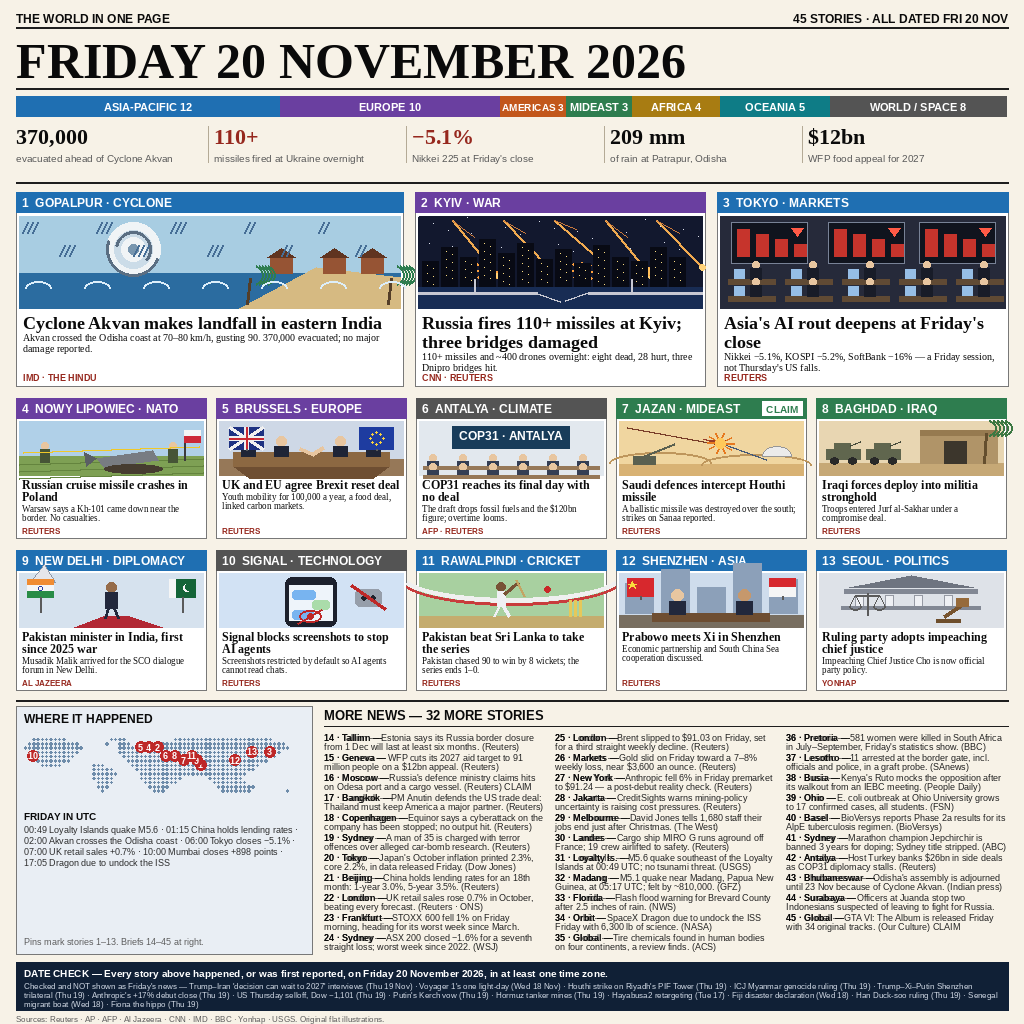
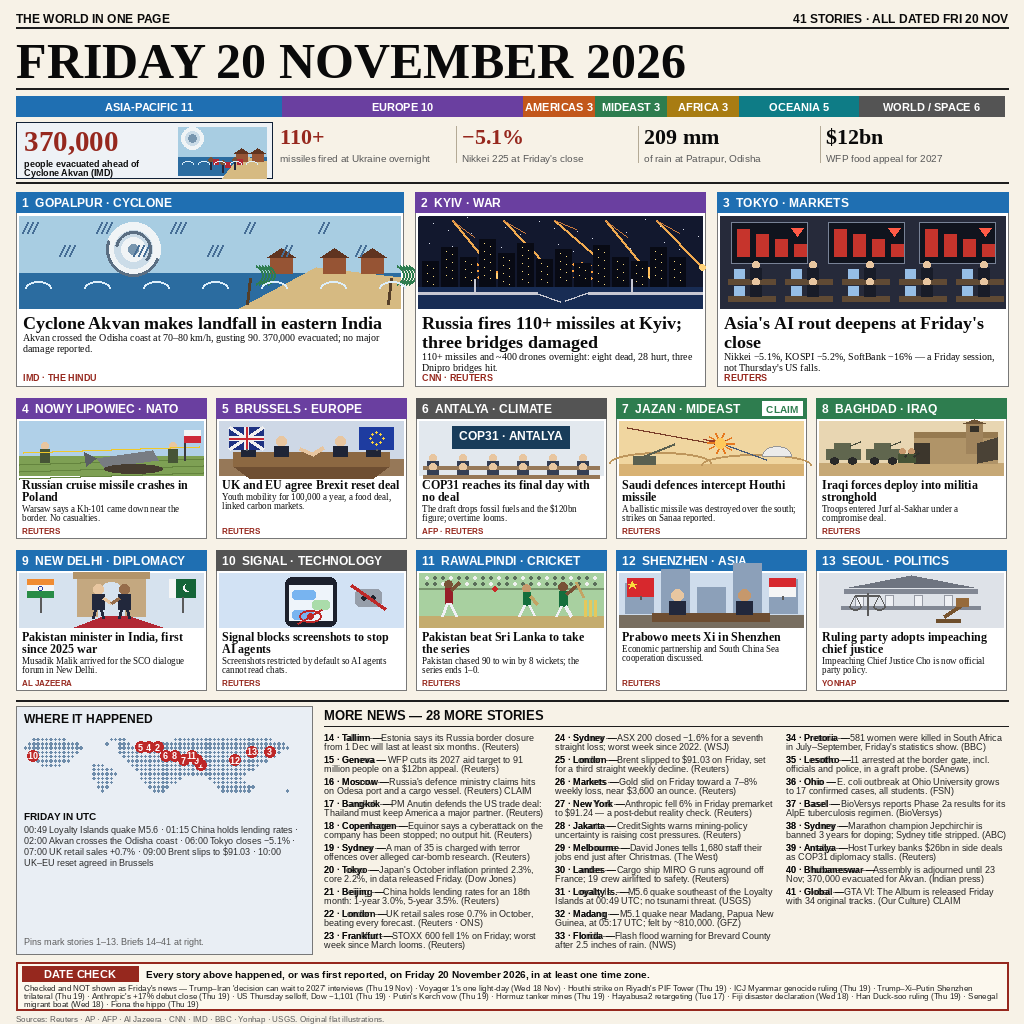
Revision round 2 per Keva 19:17-19:19: V2 cream DATE CHECK locked with strong red frame + title chip; briefs cut 32->28 (41 stories) at pitch 22; hero figure 370,000 panel with evacuation scene; new scenes for cards 8 (convoy+soldiers+watchtower), 9 (handshake at India Gate), 11 (cricket chase, no b

diff --git a/render.py b/render.py
@@ -279,15 +279,16 @@ def scene_iraq(x, y, w, h):
     d.rectangle([x, y, x + w, y + h], fill=(232, 214, 178))
     gy = y + int(h * .78)
     d.rectangle([x, gy, x + w, y + h], fill=(198, 168, 118))
-    # compound wall + gate
-    d.rectangle([x + int(w * .55), y + int(h * .18), x + w - 6, gy], fill=(176, 148, 104))
-    d.rectangle([x + int(w * .55), y + int(h * .18), x + w - 6, y + int(h * .26)], fill=(150, 122, 80))
-    d.rectangle([x + int(w * .68), gy - 22, x + int(w * .8), gy], fill=(60, 54, 44))
-    # palm
-    px = x + int(w * .9)
-    d.line([px, gy, px + 2, gy - 30], fill=(100, 78, 46), width=3)
-    for a in range(5):
-        d.arc([px - 14 + a * 4, gy - 44, px + 12 + a * 4, gy - 26], 300, 60, fill=(60, 120, 66), width=2)
+    # compound wall + watchtower + open gate (troops entering the stronghold)
+    d.rectangle([x + int(w * .52), y + int(h * .22), x + w - 6, gy], fill=(176, 148, 104))
+    d.rectangle([x + int(w * .52), y + int(h * .22), x + w - 6, y + int(h * .30)], fill=(150, 122, 80))
+    tx = x + int(w * .80)
+    d.rectangle([tx, y + int(h * .04), tx + 16, gy - 10], fill=(160, 132, 92))
+    d.polygon([(tx - 3, y + int(h * .04)), (tx + 8, y - 2), (tx + 19, y + int(h * .04))], fill=(110, 84, 54))
+    d.rectangle([tx + 4, y + int(h * .10), tx + 12, y + int(h * .20)], fill=(52, 48, 40))
+    # gate: one leaf swung open, vehicle passing through the gap
+    d.rectangle([x + int(w * .52), gy - 20, x + int(w * .60), gy], fill=(60, 54, 44))
+    d.polygon([(x + int(w * .86), gy - 20), (x + w - 6, gy - 26), (x + w - 6, gy - 4), (x + int(w * .86), gy)], fill=(74, 66, 54))
     # armoured vehicles convoy
     for i, fx in enumerate((0.04, 0.26)):
         vx = x + int(w * fx); vy = gy - 14
@@ -296,20 +297,32 @@ def scene_iraq(x, y, w, h):
         d.line([vx + 24, vy - 4, vx + 34, vy - 8], fill=(70, 74, 58), width=2)
         d.ellipse([vx + 4, vy + 8, vx + 12, vy + 15], fill=(40, 40, 40))
         d.ellipse([vx + 22, vy + 8, vx + 30, vy + 15], fill=(40, 40, 40))
+    # soldiers on foot walking toward the gate (drawn last, in front of the convoy)
+    for fx in (0.44, 0.485):
+        sx = x + int(w * fx); sy = gy - 1
+        d.ellipse([sx, sy - 14, sx + 6, sy - 8], fill=(198, 152, 108))
+        d.rectangle([sx - 1, sy - 8, sx + 7, sy], fill=(70, 84, 54))
+        d.line([sx + 6, sy - 6, sx + 11, sy - 10], fill=(50, 50, 44), width=2)
 
 def scene_delhi(x, y, w, h):
     d.rectangle([x, y, x + w, y + h], fill=(214, 226, 238))
     gy = y + int(h * .8)
+    # India Gate silhouette behind the meeting (New Delhi landmark)
+    gx = x + w // 2
+    d.rectangle([gx - 34, gy - 40, gx + 34, gy], fill=(196, 168, 128))
+    d.rectangle([gx - 38, gy - 44, gx + 38, gy - 38], fill=(178, 148, 106))
+    d.pieslice([gx - 13, gy - 34, gx + 13, gy - 8], 180, 360, fill=(214, 226, 238))
+    d.rectangle([gx - 13, gy - 21, gx + 13, gy], fill=(214, 226, 238))
     # red carpet
     d.polygon([(x + int(w * .3), y + h), (x + int(w * .46), gy), (x + int(w * .6), gy), (x + int(w * .78), y + h)], fill=(178, 40, 52))
-    # plane tail behind
-    d.polygon([(x + int(w * .06), gy - 34), (x + int(w * .2), gy - 34), (x + int(w * .14), gy - 52)], fill=(230, 230, 235), outline=(140, 150, 165))
-    # minister figure walking
-    mx = x + int(w * .5)
-    d.ellipse([mx - 5, gy - 34, mx + 5, gy - 24], fill=(150, 108, 74))
-    d.rectangle([mx - 6, gy - 24, mx + 6, gy - 8], fill=(34, 40, 60))
-    d.line([mx - 3, gy - 8, mx - 6, gy + 2], fill=(34, 40, 60), width=3)
-    d.line([mx + 3, gy - 8, mx + 7, gy + 2], fill=(34, 40, 60), width=3)
+    # two ministers shaking hands at the centre of the carpet
+    for sgn, skin in ((-1, (232, 198, 160)), (1, (150, 108, 74))):
+        mx = gx + sgn * 13
+        d.ellipse([mx - 5, gy - 32, mx + 5, gy - 22], fill=skin)
+        d.rectangle([mx - 6, gy - 22, mx + 6, gy - 7], fill=(34, 40, 60))
+        d.line([mx - 3, gy - 7, mx - 5, gy + 2], fill=(34, 40, 60), width=3)
+        d.line([mx + 3, gy - 7, mx + 5, gy + 2], fill=(34, 40, 60), width=3)
+        d.line([mx - sgn * 5, gy - 18, gx, gy - 13], fill=skin, width=3)
     # flags India & Pakistan
     def flag_in(bx, by):
         d.rectangle([bx, by, bx + 26, by + 6], fill=(240, 140, 50))
@@ -353,20 +366,40 @@ def scene_cricket(x, y, w, h):
     d.rectangle([x, y, x + w, y + h], fill=(168, 208, 160))
     gy = y + int(h * .8)
     d.rectangle([x, gy, x + w, y + h], fill=(196, 172, 110))
-    # stadium arc
-    d.arc([x - 20, y - int(h * .5), x + w + 20, y + int(h * .55)], 20, 160, fill=(240, 240, 240), width=5)
-    d.arc([x - 20, y - int(h * .42), x + w + 20, y + int(h * .6)], 20, 160, fill=(200, 60, 60), width=3)
-    # batsman
-    bx = x + int(w * .42)
+    # crowd in the stands: plain dot rows, no banner
+    for r_ in range(2):
+        for i in range(22):
+            cxp = x + 6 + i * int((w - 12) / 21); cyp = y + 3 + r_ * 6
+            d.ellipse([cxp, cyp, cxp + 3, cyp + 3], fill=(90, 110, 90) if (i + r_) % 3 else (240, 240, 240))
+    d.line([x, y + 15, x + w, y + 15], fill=(120, 150, 110), width=2)
+    # the chase: bowler (left) has just delivered; batsman in green (right) plays the shot;
+    # his partner runs between the wickets — the winning chase, told as a match scene
+    # bowler
+    wx = x + int(w * .14)
+    d.ellipse([wx, gy - 36, wx + 8, gy - 28], fill=(120, 82, 54))
+    d.rectangle([wx + 1, gy - 28, wx + 8, gy - 13], fill=(150, 30, 40))
+    d.line([wx + 7, gy - 26, wx + 15, gy - 34], fill=(120, 82, 54), width=3)  # bowling arm up
+    d.line([wx + 3, gy - 13, wx - 2, gy], fill=(240, 240, 245), width=3)
+    d.line([wx + 6, gy - 13, wx + 12, gy], fill=(240, 240, 245), width=3)
+    # ball in flight
+    d.ellipse([x + int(w * .40), gy - 30, x + int(w * .40) + 5, gy - 25], fill=(200, 40, 40))
+    # running partner, mid-pitch, bat in hand
+    rx = x + int(w * .56)
+    d.ellipse([rx, gy - 32, rx + 8, gy - 24], fill=(198, 152, 108))
+    d.rectangle([rx + 1, gy - 24, rx + 8, gy - 11], fill=(20, 110, 60))
+    d.line([rx + 2, gy - 11, rx - 3, gy], fill=(240, 240, 245), width=3)
+    d.line([rx + 7, gy - 11, rx + 12, gy - 1], fill=(240, 240, 245), width=3)
+    d.line([rx + 8, gy - 20, rx + 15, gy - 12], fill=(196, 164, 100), width=3)  # carried bat
+    # batsman in Pakistan green, shot played
+    bx = x + int(w * .76)
     d.ellipse([bx, gy - 34, bx + 9, gy - 25], fill=(120, 82, 54))
-    d.rectangle([bx + 1, gy - 25, bx + 9, gy - 10], fill=(240, 240, 245))
-    d.line([bx + 8, gy - 22, bx + 22, gy - 34], fill=(120, 82, 54), width=3)  # bat arm
-    d.line([bx + 20, gy - 36, bx + 28, gy - 20], fill=(196, 164, 100), width=3)  # bat
+    d.rectangle([bx + 1, gy - 25, bx + 9, gy - 10], fill=(20, 110, 60))
+    d.line([bx + 8, gy - 22, bx + 20, gy - 32], fill=(120, 82, 54), width=3)  # bat arm
+    d.line([bx + 18, gy - 34, bx + 25, gy - 19], fill=(196, 164, 100), width=3)  # bat
     d.line([bx + 3, gy - 10, bx - 2, gy], fill=(240, 240, 245), width=3)
     d.line([bx + 7, gy - 10, bx + 13, gy], fill=(240, 240, 245), width=3)
-    # ball + stumps
-    d.ellipse([x + int(w * .68), gy - 30, x + int(w * .68) + 6, gy - 24], fill=(200, 40, 40))
-    sx = x + int(w * .82)
+    # stumps behind the batsman
+    sx = x + int(w * .90)
     for i in range(3):
         d.rectangle([sx + i * 5, gy - 16, sx + i * 5 + 2, gy], fill=(230, 200, 90))
 
@@ -488,7 +521,7 @@ BRIEFS = [
     (20, "Tokyo", "Japan's October inflation printed 2.3%, core 2.2%, in data released Friday. (Dow Jones)"),
     (21, "Beijing", "China holds lending rates for an 18th month: 1-year 3.0%, 5-year 3.5%. (Reuters)"),
     (22, "London", "UK retail sales rose 0.7% in October, beating every forecast. (Reuters · ONS)"),
-    (23, "Frankfurt", "STOXX 600 fell 1% on Friday morning, heading for its worst week since March. (Reuters)"),
+    (23, "Frankfurt", "STOXX 600 fell 1% on Friday; worst week since March looms. (Reuters)"),
     (24, "Sydney", "ASX 200 closed −1.6% for a seventh straight loss; worst week since 2022. (WSJ)"),
     (25, "London", "Brent slipped to $91.03 on Friday, set for a third straight weekly decline. (Reuters)"),
     (26, "Markets", "Gold slid on Friday toward a 7–8% weekly loss, near $3,600 an ounce. (Reuters)"),
@@ -499,18 +532,14 @@ BRIEFS = [
     (31, "Loyalty Is.", "M5.6 quake southeast of the Loyalty Islands at 00:49 UTC; no tsunami threat. (USGS)"),
     (32, "Madang", "M5.1 quake near Madang, Papua New Guinea, at 05:17 UTC; felt by ~810,000. (GFZ)"),
     (33, "Florida", "Flash flood warning for Brevard County after 2.5 inches of rain. (NWS)"),
-    (34, "Orbit", "SpaceX Dragon due to undock the ISS Friday with 6,300 lb of science. (NASA)"),
-    (35, "Global", "Tire chemicals found in human bodies on four continents, a review finds. (ACS)"),
-    (36, "Pretoria", "581 women were killed in South Africa in July–September, Friday's statistics show. (BBC)"),
-    (37, "Lesotho", "11 arrested at the border gate, incl. officials and police, in a graft probe. (SAnews)"),
-    (38, "Busia", "Kenya's Ruto mocks the opposition after its walkout from an IEBC meeting. (People Daily)"),
-    (39, "Ohio", "E. coli outbreak at Ohio University grows to 17 confirmed cases, all students. (FSN)"),
-    (40, "Basel", "BioVersys reports Phase 2a results for its AlpE tuberculosis regimen. (BioVersys)"),
-    (41, "Sydney", "Marathon champion Jepchirchir is banned 3 years for doping; Sydney title stripped. (ABC)"),
-    (42, "Antalya", "Host Turkey banks $26bn in side deals as COP31 diplomacy stalls. (Reuters)"),
-    (43, "Bhubaneswar", "Odisha's assembly is adjourned until 23 Nov because of Cyclone Akvan. (Indian press)"),
-    (44, "Surabaya", "Officers at Juanda stop two Indonesians suspected of leaving to fight for Russia."),
-    (45, "Global", "GTA VI: The Album is released Friday with 34 original tracks. (Our Culture) CLAIM"),
+    (34, "Pretoria", "581 women were killed in South Africa in July–September, Friday's statistics show. (BBC)"),
+    (35, "Lesotho", "11 arrested at the border gate, incl. officials and police, in a graft probe. (SAnews)"),
+    (36, "Ohio", "E. coli outbreak at Ohio University grows to 17 confirmed cases, all students. (FSN)"),
+    (37, "Basel", "BioVersys reports Phase 2a results for its AlpE tuberculosis regimen. (BioVersys)"),
+    (38, "Sydney", "Marathon champion Jepchirchir is banned 3 years for doping; Sydney title stripped. (ABC)"),
+    (39, "Antalya", "Host Turkey banks $26bn in side deals as COP31 diplomacy stalls. (Reuters)"),
+    (40, "Bhubaneswar", "Assembly is adjourned until 23 Nov; 370,000 evacuated for Akvan. (Indian press)"),
+    (41, "Global", "GTA VI: The Album is released Friday with 34 original tracks. (Our Culture) CLAIM"),
 ]
 FIGURES = [
     ("370,000", "evacuated ahead of Cyclone Akvan"),
@@ -531,7 +560,7 @@ CW = W - 2 * MX  # 992
 # masthead
 f = F(SANS_B, 12)
 d.text((MX, 12), "THE WORLD IN ONE PAGE", font=f, fill=INK)
-r = "45 STORIES · ALL DATED FRI 20 NOV"
+r = "41 STORIES · ALL DATED FRI 20 NOV"
 d.text((W - MX - tw(f, r), 12), r, font=f, fill=INK)
 d.line([MX, 27, W - MX, 27], fill=RULE, width=2)
 draw_fit("FRIDAY 20 NOVEMBER 2026", MX, 33, SERIF_B, 50, CW, 1, fill=INK)
@@ -544,9 +573,8 @@ for p in HEROES + CARDS:
     cnt[p["region"]] += 1
 brief_regions = ["EUROPE", "WORLD", "EUROPE", "ASIA", "EUROPE", "OCEANIA", "ASIA", "ASIA", "EUROPE", "EUROPE",
                  "OCEANIA", "WORLD", "WORLD", "AMERICAS", "ASIA", "OCEANIA", "EUROPE", "OCEANIA", "OCEANIA",
-                 "AMERICAS", "WORLD", "WORLD", "AFRICA", "AFRICA", "AFRICA", "AMERICAS", "EUROPE", "AFRICA",
-                 "MIDEAST", "ASIA", "ASIA", "WORLD"]
-assert len(brief_regions) == len(BRIEFS) == 32, (len(brief_regions), len(BRIEFS))
+                 "AMERICAS", "AFRICA", "AFRICA", "AMERICAS", "EUROPE", "AFRICA", "MIDEAST", "ASIA", "WORLD"]
+assert len(brief_regions) == len(BRIEFS) == 28, (len(brief_regions), len(BRIEFS))
 for rgn in brief_regions:
     cnt[rgn] += 1
 order = ["ASIA", "EUROPE", "AMERICAS", "MIDEAST", "AFRICA", "OCEANIA", "WORLD"]
@@ -566,15 +594,45 @@ for o in order:
             break
     x += wseg
 
-# figures row (caption ends ~yfig+49; rule below at 182 keeps 9px clear — no strike-through)
+# figures row (captions end by ~yfig+52; rule below at 182 keeps clear space — no strike-through)
 yfig = 124
-fw = CW // 5
+FIGW = [264, 182, 182, 182, 182]  # first figure is the hero stat: wider cell
+assert sum(FIGW) == CW
+fx = MX
 for i, (num, cap) in enumerate(FIGURES):
-    fx = MX + i * fw
-    if i:
-        d.line([fx - 6, yfig + 2, fx - 6, yfig + 38], fill=(180, 170, 150), width=1)
-    draw_fit(num, fx, yfig, SERIF_B, 22, fw - 12, 1, fill=(150, 40, 30) if i in (1, 2) else INK)
-    draw_fit(cap, fx, yfig + 28, SANS, 10, fw - 12, 2, fill=GREY, leading=1.05)
+    fw = FIGW[i]
+    if i == 0:
+        # HERO FIGURE 370,000: tinted panel + big accent number + mini evacuation scene,
+        # so the wide cell reads as a story, not an empty stat (Keva 19:18)
+        d.rectangle([fx, yfig - 2, fx + fw - 8, yfig + 54], fill=(238, 242, 246), outline=NAVY, width=1)
+        draw_fit(num, fx + 8, yfig + 1, SERIF_B, 29, 150, 1, fill=(150, 40, 30))
+        draw_fit("people evacuated ahead of Cyclone Akvan (IMD)", fx + 8, yfig + 34, SANS_B, 9, 148, 2,
+                 fill=INK, leading=1.05)
+        # mini scene: Odisha coast — sky, sea, houses, evacuees walking with bundles, cyclone swirl
+        sx, sy, sw, sh = fx + 162, yfig + 3, 88, 48
+        d.rectangle([sx, sy, sx + sw, sy + sh], fill=(168, 205, 226))
+        d.rectangle([sx, sy + 30, sx + sw, sy + sh], fill=(43, 108, 160))
+        for rr, col in [(11, (240, 244, 246)), (7, (203, 220, 232)), (4, (120, 150, 175))]:
+            d.ellipse([sx + 14 - rr, sy + 11 - rr, sx + 14 + rr, sy + 11 + rr], fill=col)
+        d.polygon([(sx + 44, sy + 51), (sx + 62, sy + 28), (sx + sw, sy + 34), (sx + sw, sy + 51)], fill=(214, 186, 130))
+        for hx in (58, 74):
+            bx = sx + hx; by = sy + 26
+            d.rectangle([bx, by, bx + 11, by + 8], fill=(150, 84, 52))
+            d.polygon([(bx - 2, by), (bx + 5, by - 5), (bx + 13, by)], fill=(96, 52, 32))
+        for j, ex in enumerate((30, 42, 54)):
+            ey = sy + 38 + (j % 2) * 3
+            d.ellipse([sx + ex, ey - 8, sx + ex + 5, ey - 3], fill=(120, 82, 54))
+            d.line([sx + ex + 2, ey - 3, sx + ex + 2, ey + 4], fill=(34, 40, 60), width=2)
+            d.rectangle([sx + ex + 5, ey - 6, sx + ex + 10, ey - 1], fill=(178, 40, 52))
+        for k in range(5):
+            wx = sx + 4 + k * 16
+            d.arc([wx, sy + 34, wx + 11, sy + 40], 180, 360, fill=(220, 238, 250), width=1)
+    else:
+        if i > 1:
+            d.line([fx - 6, yfig + 2, fx - 6, yfig + 38], fill=(180, 170, 150), width=1)
+        draw_fit(num, fx, yfig, SERIF_B, 22, fw - 12, 1, fill=(150, 40, 30) if i in (1, 2) else INK)
+        draw_fit(cap, fx, yfig + 28, SANS, 10, fw - 12, 2, fill=GREY, leading=1.05)
+    fx += fw
 d.line([MX, 182, W - MX, 182], fill=RULE, width=2)
 
 # heroes: y 192..386 (194 tall, 10px margin above from rule at 182), widths 4:3:3
@@ -659,20 +717,20 @@ for num, ci, ri in PINS:
 tl_y = BY + 104
 d.text((MX + 8, tl_y), "FRIDAY IN UTC", font=F(SANS_B, 10), fill=INK)
 draw_fit("00:49 Loyalty Islands quake M5.6 · 01:15 China holds lending rates · 02:00 Akvan crosses the Odisha coast · "
-         "06:00 Tokyo closes −5.1% · 07:00 UK retail sales +0.7% · 10:00 Mumbai closes +898 points · 17:05 Dragon due to undock the ISS",
+         "06:00 Tokyo closes −5.1% · 07:00 UK retail sales +0.7% · 09:00 Brent slips to $91.03 · 10:00 UK–EU reset agreed in Brussels",
          MX + 8, tl_y + 14, SANS, 9, MAPW - 16, 6, fill=(40, 40, 40), leading=1.25)
-d.text((MX + 8, BY + BH - 18), "Pins mark stories 1–13. Briefs 14–45 at right.", font=F(SANS, 9), fill=GREY)
+d.text((MX + 8, BY + BH - 18), "Pins mark stories 1–13. Briefs 14–41 at right.", font=F(SANS, 9), fill=GREY)
 
-# briefs: 3 columns x 12
+# briefs: 3 columns, 10 per column, pitch 22 (bottom margin under every brief)
 BX = MX + MAPW + 12
 BW3 = (W - MX - BX - 2 * 10) // 3
-d.text((BX, BY + 2), "MORE NEWS — 32 MORE STORIES", font=F(SANS_B, 13), fill=INK)
+d.text((BX, BY + 2), "MORE NEWS — 28 MORE STORIES", font=F(SANS_B, 13), fill=INK)
 d.line([BX, BY + 20, W - MX, BY + 20], fill=RULE, width=1)
-per_col = 11
+per_col = 10
 for i, (num, city, text) in enumerate(BRIEFS):
     col = i // per_col; row = i % per_col
     bx = BX + col * (BW3 + 10)
-    by = BY + 26 + row * 20
+    by = BY + 26 + row * 22
     head = f"{num} · {city} — "
     fb = F(SANS_B, 9)
     d.text((bx, by), head, font=fb, fill=INK)
@@ -688,22 +746,18 @@ for i, (num, city, text) in enumerate(BRIEFS):
         yy += 9.5
     d.text((bx, by), head, font=fb, fill=INK)
 
-# date check band — 3 style variants (DATECHECK env): dark (current), cream, red
+# date check band — FINAL design (Keva ronde 2, 19:17): V2 cream family, but with the
+# visual weight of an important box: strong dark-red frame, filled title chip, dark body.
 DY = 962
-DC_STYLE = os.environ.get("DATECHECK", "dark")
-DC_STYLES = {
-    # v1 "hitam": deep navy band, white title, pale body (perlakuan saat ini)
-    "dark":  dict(fill=NAVY, outline=None, title=(255, 255, 255), body=(210, 218, 230)),
-    # v2 "krem": nada kertas masthead, teks tinta gelap, bingkai garis tegas
-    "cream": dict(fill=(252, 248, 238), outline=RULE, title=INK, body=(45, 45, 45)),
-    # v3 "merah aksen": merah tua yang sama dengan angka figur & label sumber
-    "red":   dict(fill=(150, 40, 30), outline=None, title=(255, 255, 255), body=(252, 228, 218)),
-}
-dc = DC_STYLES[DC_STYLE]
-d.rectangle([MX, DY, W - MX, DY + 48], fill=dc["fill"], outline=dc["outline"], width=2 if dc["outline"] else 1)
-d.text((MX + 8, DY + 5), "DATE CHECK — Every story above happened, or was first reported, on Friday 20 November 2026, in at least one time zone.",
-       font=F(SANS_B, 10), fill=dc["title"])
-draw_fit(EXCLUSIONS, MX + 8, DY + 19, SANS, 8, CW - 16, 3, fill=dc["body"], leading=1.15)
+d.rectangle([MX, DY, W - MX, DY + 48], fill=(252, 248, 238), outline=(150, 40, 30), width=2)
+_chip_w = 116
+d.rectangle([MX + 6, DY + 4, MX + 6 + _chip_w, DY + 19], fill=(150, 40, 30))
+_ft = F(SANS_B, 11)
+_lab = "DATE CHECK"
+d.text((MX + 6 + (_chip_w - tw(_ft, _lab)) / 2, DY + 6), _lab, font=_ft, fill=(255, 255, 255))
+d.text((MX + 6 + _chip_w + 8, DY + 6), "Every story above happened, or was first reported, on Friday 20 November 2026, in at least one time zone.",
+       font=F(SANS_B, 10), fill=INK)
+draw_fit(EXCLUSIONS, MX + 8, DY + 21, SANS, 8, CW - 16, 3, fill=(30, 30, 30), leading=1.0)
 d.text((MX, H - 10), "Sources: Reuters · AP · AFP · Al Jazeera · CNN · IMD · BBC · Yonhap · USGS. Original flat illustrations.",
        font=F(SANS, 8), fill=GREY)
 

diff --git a/main.py b/main.py
@@ -2,7 +2,7 @@
 """news-image-20261120 entry: "The World in One Page — Friday 20 November 2026".
 
 The deliverable is entry.png, a one-page illustrated news sheet of Friday
-20 November 2026 (45 stories, all dated that day). This entrypoint simply
+20 November 2026 (41 stories, all dated that day). This entrypoint simply
 copies the pre-rendered sheet into the directory named by MAKEFUN_OUTPUT_DIR
 (or ./output). Standard library only.
 """

diff --git a/README.md b/README.md
@@ -4,7 +4,7 @@
 [![Rank](https://make.fun/badge/news-image-20261120/bapenven-ctrl/news-image-20nov/rank.svg)](https://make.fun/c/news-image-20261120)
 [![Reward](https://make.fun/badge/news-image-20261120/bapenven-ctrl/news-image-20nov/reward.svg)](https://make.fun/c/news-image-20261120)
 
-One page of world news for **Friday 20 November 2026**: 45 stories, every one
+One page of world news for **Friday 20 November 2026**: 41 stories, every one
 of them reported that day, in at least one time zone.
 
 ## What is on the page
@@ -18,7 +18,7 @@ of them reported that day, in at least one time zone.
   missile, Iraqi forces in Jurf al-Sakhar, Pakistan's minister in New Delhi,
   Signal blocking screenshots, Pakistan's series win in Rawalpindi,
   Prabowo–Xi in Shenzhen, and Seoul's move to impeach the chief justice.
-- **36 briefs**, a dotted world map with pins for stories 1–13, a "Friday in
+- **28 briefs**, a dotted world map with pins for stories 1–13, a "Friday in
   UTC" timeline, and a printed **DATE CHECK** box listing the stories that
   were checked and deliberately *not* shown as Friday's news (among them the
   Trump–Iran interviews of Thu 19 Nov and Voyager 1's one-light-day milestone
